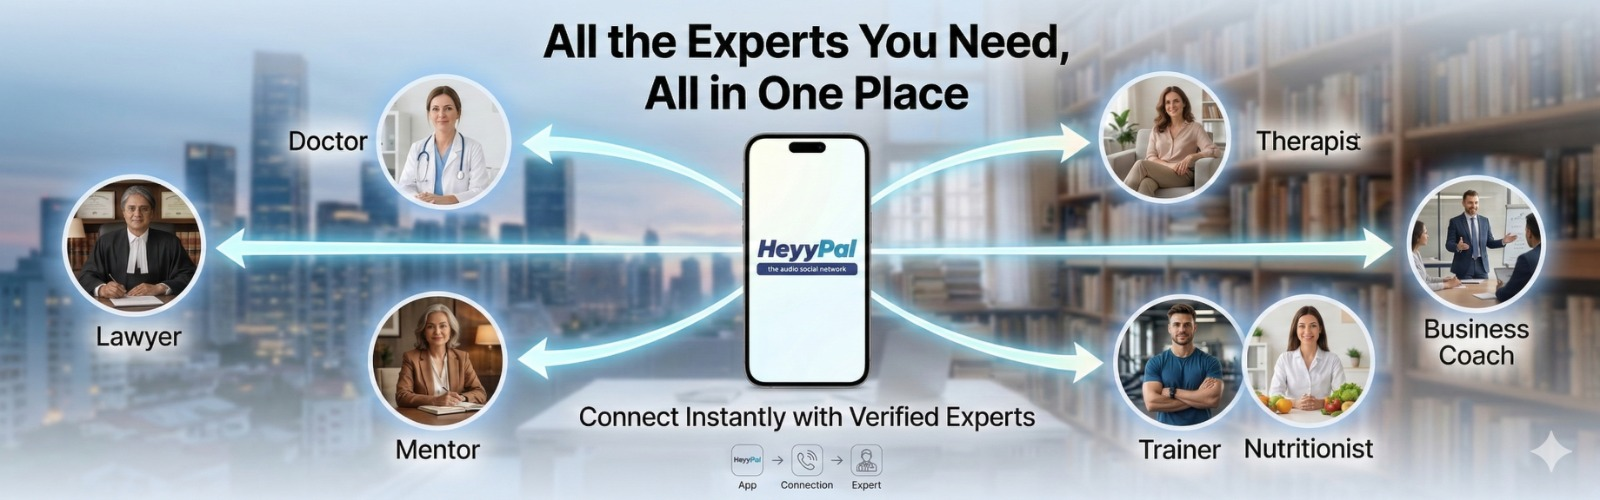
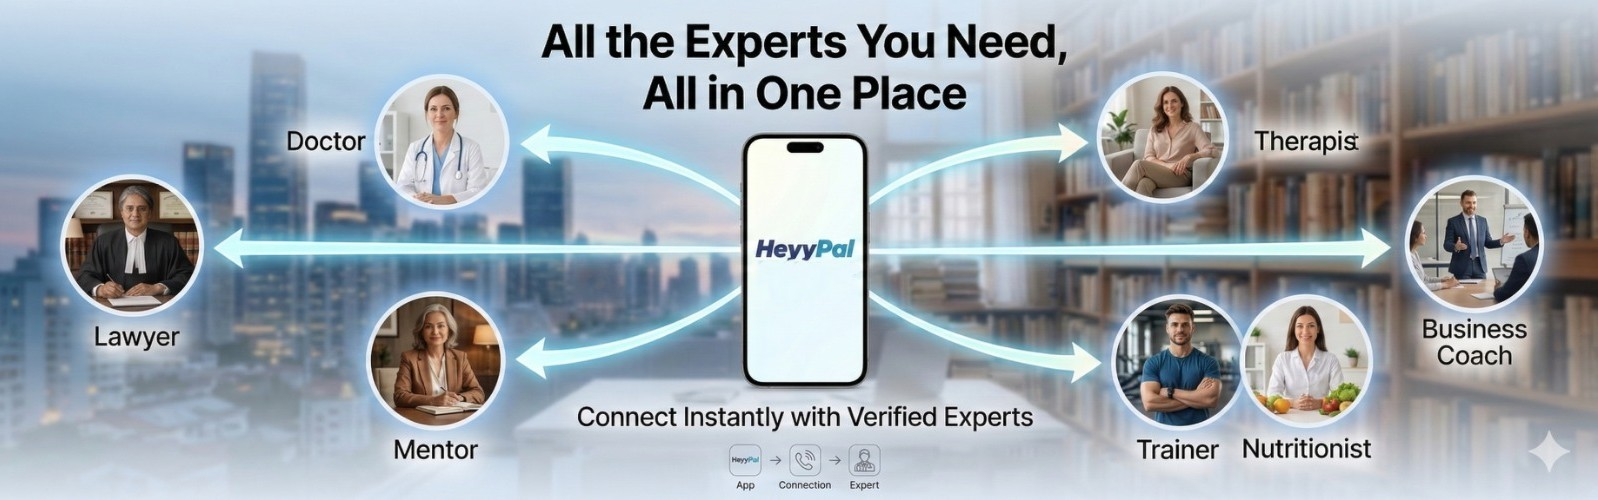
updated

diff --git a/src/components/AppHeader.vue b/src/components/AppHeader.vue
@@ -2,11 +2,12 @@
   <header class="header" :class="{ scrolled: scrolled }">
     <div class="header-inner">
       <router-link to="/" class="logo">
-        <img src="/logo.png" alt="HeyyPal - the audio social network" class="logo-img" />
+        <img src="/logo.png" alt="HeyyPal" class="logo-img" />
       </router-link>
-      <button class="nav-toggle" aria-label="Menu" @click="open = !open">
+      <button class="nav-toggle" aria-label="Menu" @click="open = !open" :class="{ active: open }">
         <span></span><span></span><span></span>
       </button>
+      <div class="nav-overlay" :class="{ active: open }" @click="open = false"></div>
       <nav class="nav" :class="{ open }">
         <router-link to="/" @click="open = false">Home</router-link>
         <router-link to="/about-us" @click="open = false">About us</router-link>
@@ -104,24 +105,84 @@ onUnmounted(() => window.removeEventListener('scroll', onScroll))
   height: 2px;
   background: currentColor;
   border-radius: 1px;
+  transition: transform 0.3s, opacity 0.3s;
+}
+.nav-toggle.active span:nth-child(1) { transform: translateY(7px) rotate(45deg); }
+.nav-toggle.active span:nth-child(2) { opacity: 0; }
+.nav-toggle.active span:nth-child(3) { transform: translateY(-7px) rotate(-45deg); }
+
+.nav-overlay {
+  position: fixed;
+  top: 0;
+  left: 0;
+  right: 0;
+  bottom: 0;
+  background: rgba(255, 255, 255, 0.4);
+  backdrop-filter: blur(8px);
+  z-index: 90;
+  opacity: 0;
+  pointer-events: none;
+  transition: opacity 0.3s ease;
+}
+.nav-overlay.active {
+  opacity: 1;
+  pointer-events: auto;
 }
 @media (max-width: 768px) {
-  .nav-toggle { display: flex; }
+  .nav-toggle { display: flex; z-index: 102; }
   .nav {
     position: fixed;
     top: 0;
+    left: 0;
     right: 0;
     bottom: 0;
-    width: 280px;
-    background: #fff;
+    width: 100%;
+    height: 100vh;
+    background: rgba(255, 255, 255, 0.88);
+    backdrop-filter: blur(25px);
+    -webkit-backdrop-filter: blur(25px);
+    display: flex;
     flex-direction: column;
-    padding: 6rem 2rem 2rem;
-    gap: 1.5rem;
-    transform: translateX(100%);
-    transition: transform 0.4s cubic-bezier(0.16, 1, 0.3, 1);
-    box-shadow: -15px 0 40px rgba(0,0,0,0.1);
+    align-items: center;
+    justify-content: center;
+    padding: 2rem;
+    gap: 2rem;
+    opacity: 0;
+    visibility: hidden;
+    transform: scale(1.1);
+    transition: all 0.5s cubic-bezier(0.16, 1, 0.3, 1);
+    z-index: 101;
   }
-  .nav.open { transform: translateX(0); }
-  .nav a { font-size: 1.2rem; }
+  .nav.open { 
+    opacity: 1;
+    visibility: visible;
+    transform: scale(1);
+  }
+  .nav a { 
+    font-size: 1.5rem;
+    color: var(--text-primary);
+    font-weight: 600;
+    text-decoration: none;
+    transition: all 0.3s;
+    text-align: center;
+    padding: 0.5rem 0;
+    width: auto;
+    border-bottom: none;
+  }
+  .nav a:hover {
+    color: var(--accent-blue);
+    transform: scale(1.1);
+  }
+  .nav .cta-nav { 
+    margin-top: 1rem;
+    padding: 1rem 2.5rem !important;
+    border-radius: 50px;
+    font-size: 1.25rem;
+    width: auto;
+    background: var(--gradient-brand);
+    color: #fff !important;
+    box-shadow: 0 10px 20px rgba(40, 55, 155, 0.2);
+    text-align: center;
+  }
 }
 </style>

diff --git a/src/views/TermsView.vue b/src/views/TermsView.vue
@@ -2,13 +2,13 @@
   <div class="page terms-page">
     <div class="container">
       <h1 class="page-title">HeyyPal Terms and Conditions of Use</h1>
-      <p class="intro">Welcome to HeyyPal, the world’s first audio social network. This Agreement sets out the legally binding terms for the use of the Site and the app (available on whichever platform) by you. This Agreement may be modified by HeyyPal from time to time. The membership and rights of admissions are reserved.</p>
+      <p class="intro">Welcome to HeyyPal, the next-generation platform for expert guidance. This Agreement sets out the legally binding terms for the use of the Site and the app (available on whichever platform) by you. This Agreement may be modified by HeyyPal from time to time. The membership and rights of admissions are reserved.</p>
       <p class="intro">The instant Terms of Use are published in accordance with the Rule 3 (1) of the Information Technology (Intermediaries Guidelines and Digital Media Ethics Code) Rules, 2021.</p>
       <p class="intro">These terms of use apply to your use of the website of HeyyPal, being “www.HeyyPal.com” (the “site” or the “website”) and HeyyPal mobile application (Android/ iOS application) (the “app”) by you (“the user” or “you”), provided by DTW Squad Pvt Ltd (“we” or “us” or “our” or “HeyyPal” or “company”). You are requested to go through the same since the users of the website and the app are bound by the terms of use set out below. If you have any objection to anything stipulated in the terms of use or our privacy policy, you are requested not to use the website or the app or any other service(s) offered by us.</p>
 
       <section class="terms-section">
         <h2>1. Services</h2>
-        <p>HeyyPal is an audio social network platform providing the following, amongst other, services (collectively referred to as the “<strong>services</strong>”):</p>
+        <p>HeyyPal is a platform providing the following, amongst other, services (collectively referred to as the “<strong>services</strong>”):</p>
         <ul>
           <li><strong>Audio Profiles</strong> – Every profile on HeyyPal app has an Audio introduction.</li>
           <li><strong>Text Messages</strong> – Users can send text messages to other users on the HeyyPal app.</li>

diff --git a/index.html b/index.html
@@ -4,8 +4,8 @@
     <meta charset="UTF-8" />
     <link rel="icon" type="image/svg+xml" href="/favicon.svg" />
     <meta name="viewport" content="width=device-width, initial-scale=1.0" />
-    <meta name="description" content="HeyyPal - Connect instantly with verified experts. Medical guidance, legal advice, therapy, mentorship and more. The audio social network for expert calls." />
-    <meta name="keywords" content="HeyyPal, expert advice, doctors, lawyers, therapists, mentors, audio social network, instant calls" />
+    <meta name="description" content="HeyyPal - Connect instantly with verified experts. Medical guidance, legal advice, therapy, mentorship and more. Professional audio connections for expert calls." />
+    <meta name="keywords" content="HeyyPal, expert advice, doctors, lawyers, therapists, mentors, instant calls" />
     <link rel="preconnect" href="https://fonts.googleapis.com" />
     <link rel="preconnect" href="https://fonts.gstatic.com" crossorigin />
     <link href="https://fonts.googleapis.com/css2?family=Outfit:wght@400;500;600;700;800&display=swap" rel="stylesheet" />

diff --git a/src/views/HomeView.vue b/src/views/HomeView.vue
@@ -1,7 +1,10 @@
 <template>
   <div class="home">
     <section class="hero">
-      <img :src="heroImageUrl" alt="HeyyPal - All the Experts You Need, All in One Place" class="hero-img" />
+      <picture>
+        <source media="(max-width: 768px)" srcset="/images/mobilehey.jpeg" />
+        <img :src="heroImageUrl" alt="HeyyPal - All the Experts You Need, All in One Place" class="hero-img" />
+      </picture>
     </section>
 
     <section class="hero-info">
@@ -142,7 +145,7 @@ const heroImageUrl = '/images/' + encodeURIComponent(heroWallpaper)
 .hero-img {
   width: 100%;
   height: 100%;
-  object-fit: contain; /* Shows full image without crop */
+  object-fit: cover; /* Fills the area for a premium look */
 }
 
 .hero-info {
@@ -152,9 +155,12 @@ const heroImageUrl = '/images/' + encodeURIComponent(heroWallpaper)
 
 @media (max-width: 768px) {
   .hero {
-    aspect-ratio: auto;
+    aspect-ratio: 1 / 1; /* Match the square image ratio */
     height: auto;
-    min-height: 250px;
+    min-height: 300px;
+  }
+  .hero-img {
+    height: 100%;
   }
 }
 

diff --git a/src/components/AppFooter.vue b/src/components/AppFooter.vue
@@ -5,7 +5,7 @@
         <router-link to="/" class="footer-logo">
           <img src="/logo.png" alt="HeyyPal" class="footer-logo-img" />
         </router-link>
-        <p class="tagline">The audio social network. Connect with experts, instantly.</p>
+        <p class="tagline">Connect with experts, instantly.</p>
       </div>
       <div class="footer-links">
         <div class="col">

diff --git a/README.md b/README.md
@@ -1,6 +1,6 @@
 # HeyyPal Landing Page
 
-A Vue.js 3 landing site for [HeyyPal](https://heyypal.com/) — the audio social network that connects users with verified experts (doctors, lawyers, therapists, mentors, and more) via instant app-to-app calling.
+A Vue.js 3 landing site for [HeyyPal](https://heyypal.com/) — a next-generation platform that connects users with verified experts (doctors, lawyers, therapists, mentors, and more) via instant app-to-app calling.
 
 ## Tech Stack
 
